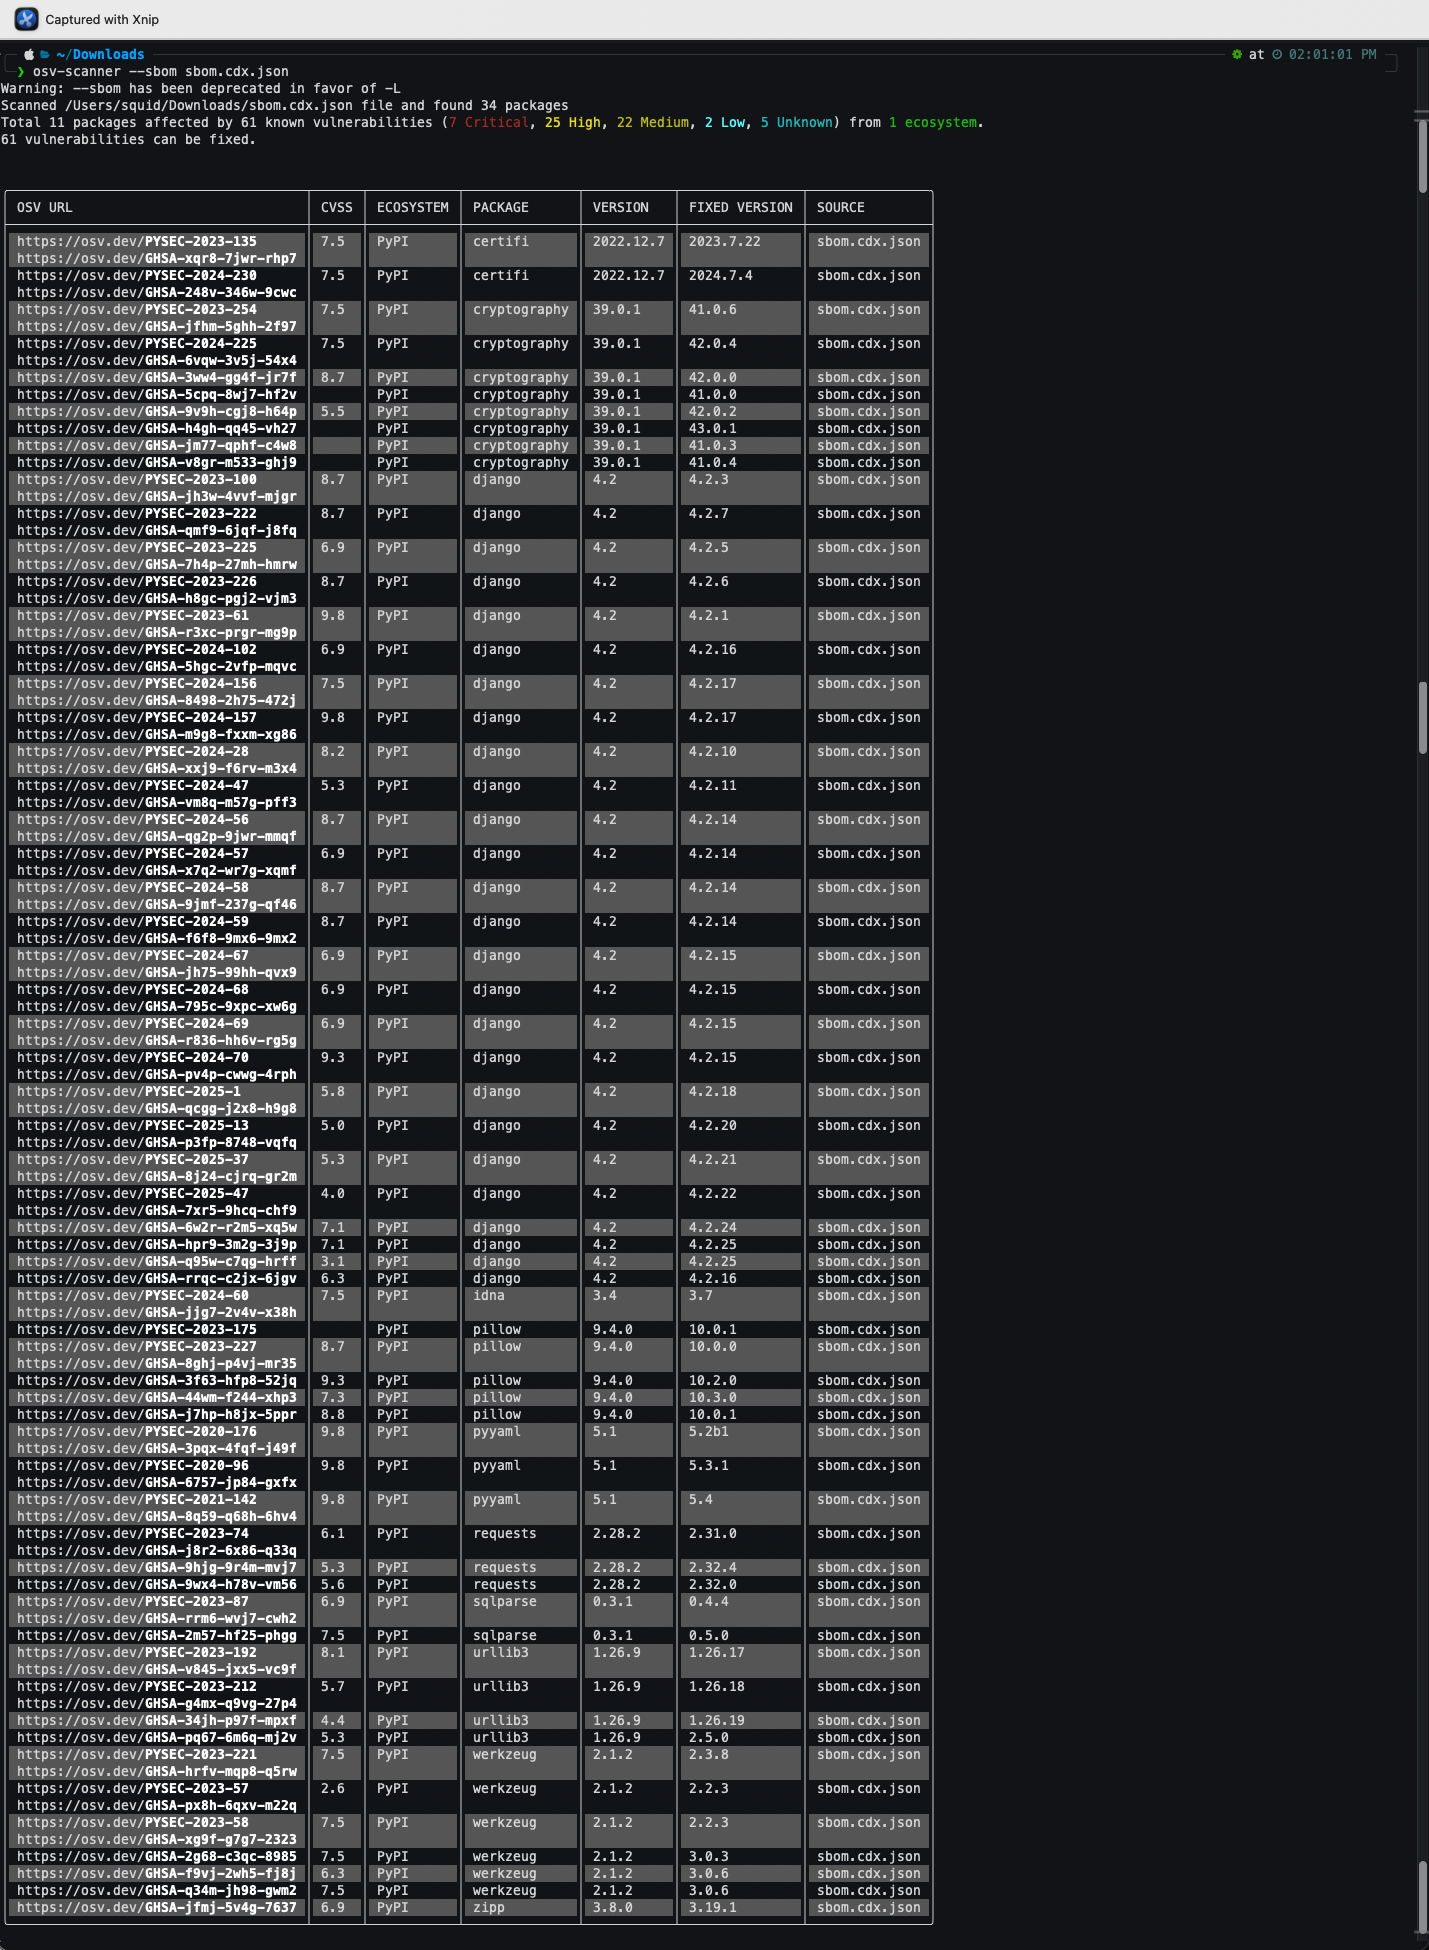
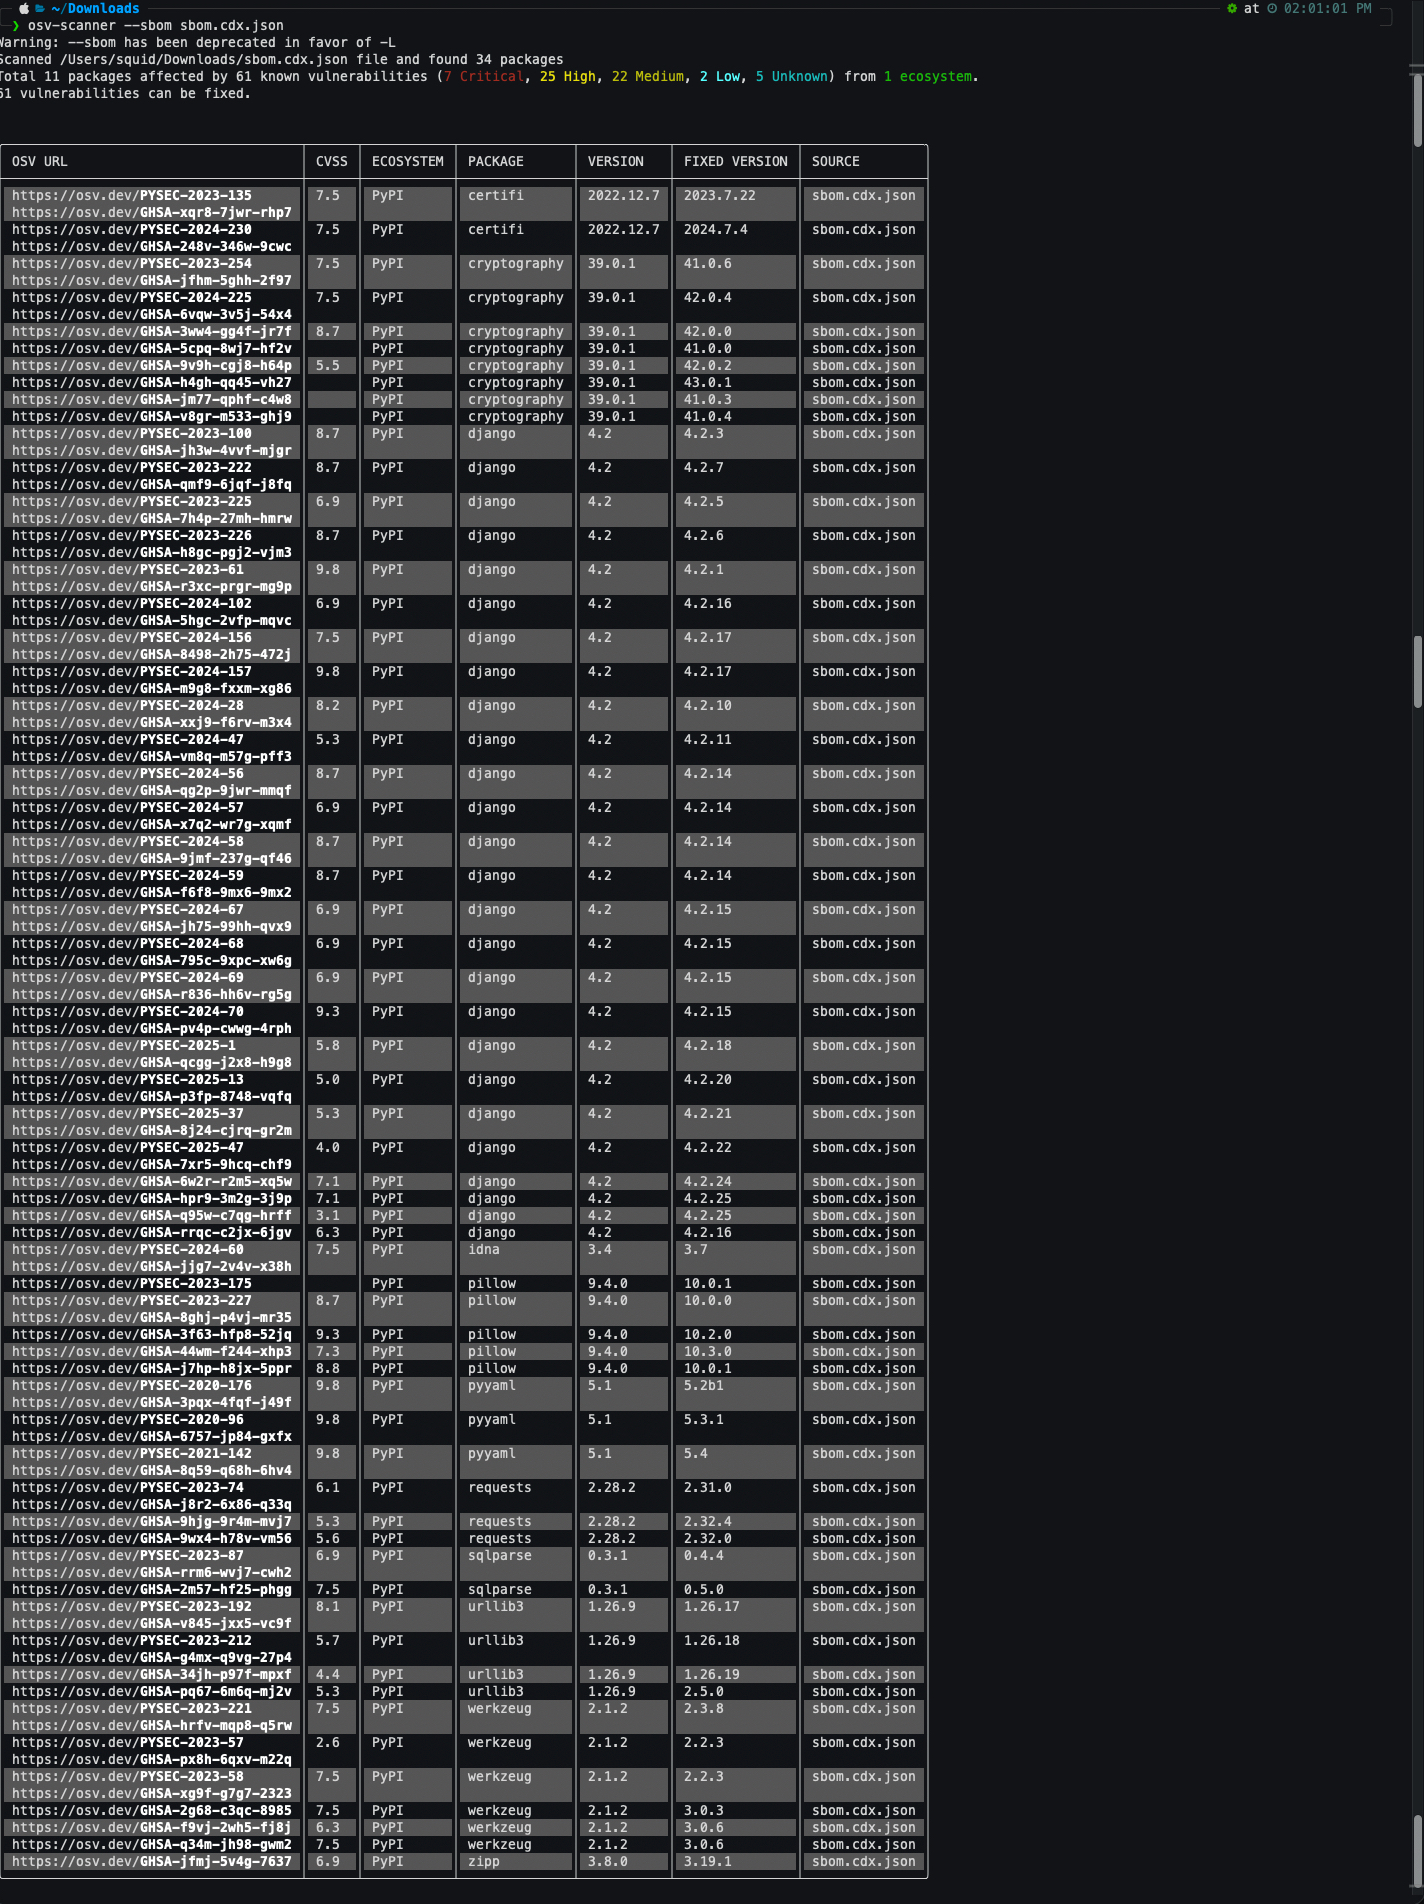
added additonal screenshots and context to README.md

diff --git a/README.md b/README.md
@@ -38,9 +38,71 @@ Depending on the role/team within an organization, SBOMs has information for eve
 ## Instructions
 
 ### Create CycloneDX Workflow
- - Create the workflow within GitHub Actions and generate
+ - Create the workflow within GitHub Actions and run it:
+ 
+```
+# .github/workflows/CycloneDX-SBOM.yml
+name: Generate CycloneDX SBOM
 
+on:
+  push:
+    branches: [ master ]
+  workflow_dispatch:
 
-### Run Workflow
+jobs:
+  build-sbom:
+    runs-on: ubuntu-latest
+
+    # Needed for GitHub’s dependency-submission API later
+    permissions:
+      contents: read
+      id-token: write
+
+    steps:
+      # Grab the code
+      - name: Checkout code
+        uses: actions/checkout@v4
+
+      # Set up Python the same way PyGoat runs
+      - name: Set up Python
+        uses: actions/setup-python@v5
+        with:
+          python-version: '3.11'          # match runtime
+          cache: pip
+
+      # Install project deps & the OWASP SBOM generator
+      - name: Install dependencies
+        run: |
+          pip install -r requirements.txt
+          pip install cyclonedx-bom            # OWASP-maintained CLI  [oai_citation:0‡PyPI](https://pypi.org/project/cyclonedx-bom/)
+
+      # Build the CycloneDX SBOM (JSON)
+      - name: Generate SBOM
+        run: |
+          cyclonedx-py requirements --output-file sbom.cdx.json
+
+      # -------------- STORAGE / DISTRIBUTION OPTIONS --------------
+
+      # Give engineers something to download
+      - name: Upload as workflow artifact
+        uses: actions/upload-artifact@v4
+        with:
+          name: pygoat-sbom
+          path: sbom.cdx.json
+          retention-days: 30      # tunable
+```
+The workflow automatically generates a SBOM everytime code is pushed to the master branch. Every build includes a up-to-date CycloneDX SBOM file to provide visibility into all python dependencies, versions, and potential supply chain risks.
+
+![Screenshot](./screenshots/sbomworkflow.jpg)
+
 ### Download SBOM
-### View and investigate vulnerabilities
+
+![Screenshot](./screenshots/sbomdownload.jpg)
+
+### View and investigate vulnerabilities with OSV-Scanner
+
+- Open a terminal/command prompt and run OSV-Scanner and explore the vulnerabilities
+
+![Screenshot](./screenshots/osvscanofsbom.jpg)
+
+
